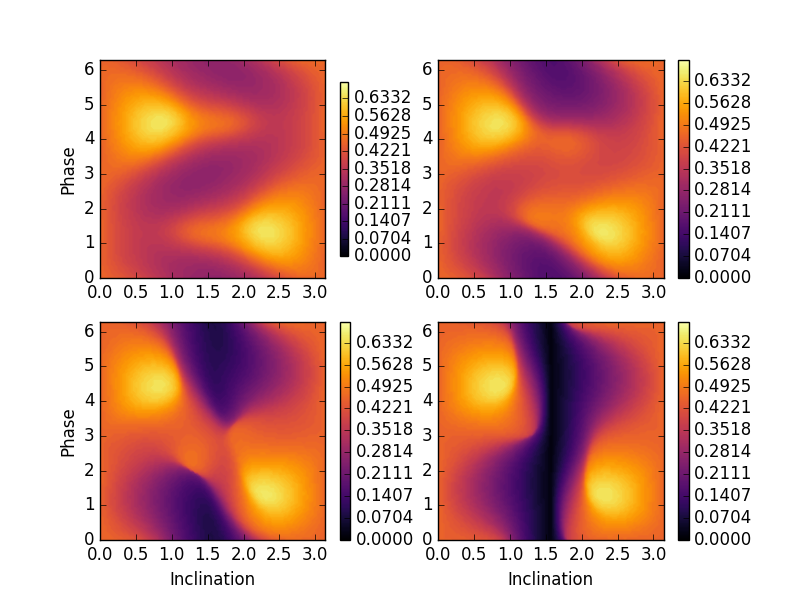
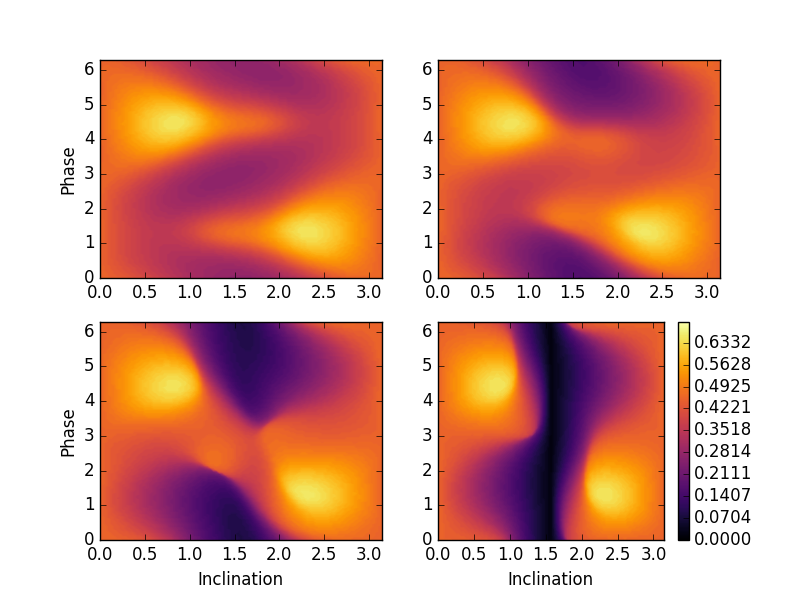
Fixing colourbar

Changed region(s): [[0.1562, 0.09, 0.5312, 0.99], [0.5625, 0.09, 0.9375, 0.51]]

diff --git a/Matching/2D_data/multiPhase.py b/Matching/2D_data/multiPhase.py
@@ -22,14 +22,11 @@ m2=specs[1]
 plt.figure()
 plt.subplot(2,2,1)
 plt.contourf(x,y,z,200,levels=levels,cmap="inferno")
-plt.colorbar(shrink=0.8)
 plt.ylabel("Phase")
 plt.subplot(2,2,2)
 plt.contourf(x2,y,z2,200,levels=levels,cmap="inferno")
-plt.colorbar()
 plt.subplot(2,2,3)
 plt.contourf(x3,y,z3,200,levels=levels,cmap="inferno")
-plt.colorbar()
 plt.xlabel("Inclination")
 plt.ylabel("Phase")
 plt.subplot(2,2,4)
